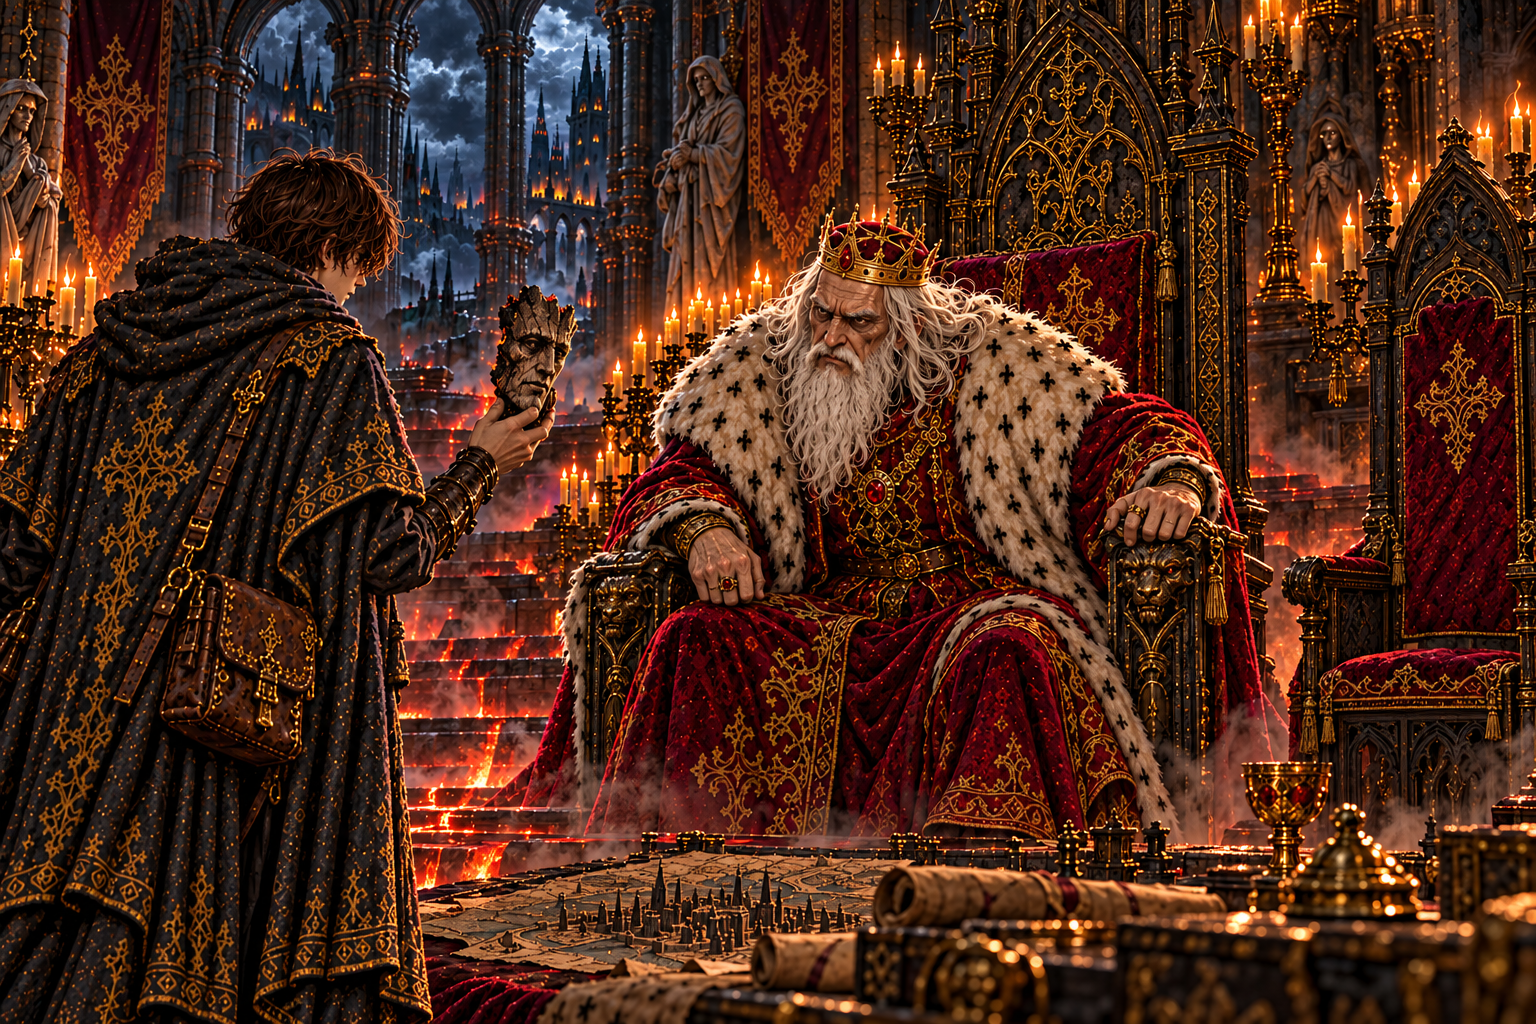
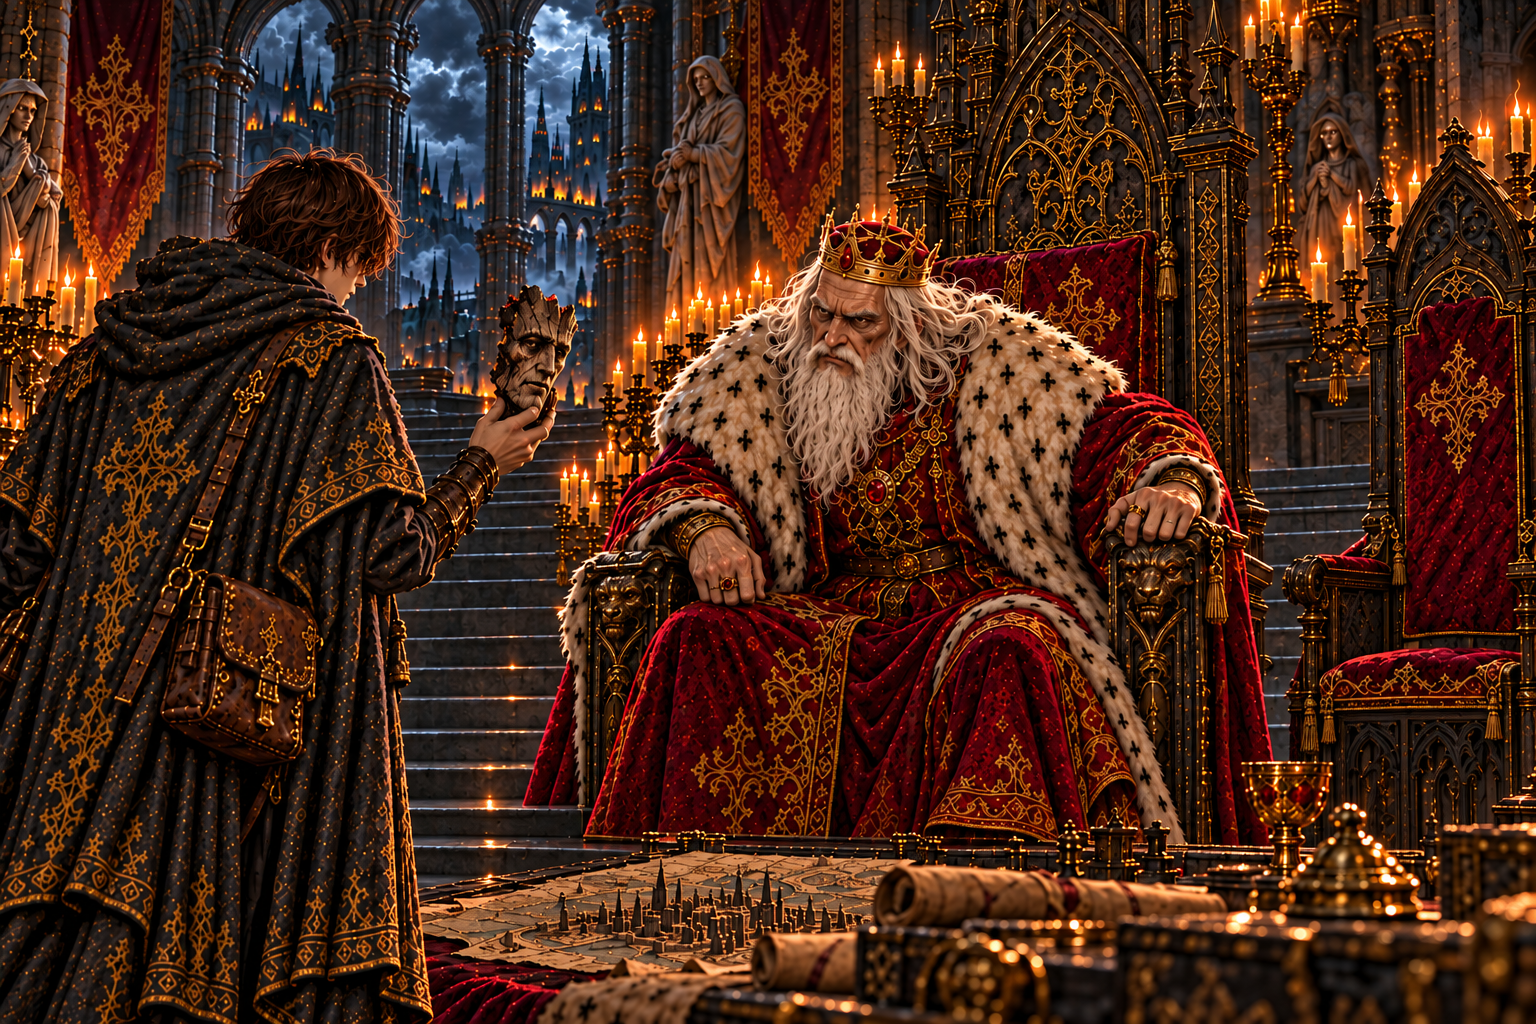
「燃やされる器」の床と階段を通常の石造りに修正

Changed region(s): [[0.0, 0.0, 1.0, 1.0], [0.625, 0.9062, 0.6875, 0.9375], [0.125, 0.3125, 0.1562, 0.3438]]

diff --git a/docs/art/codex-story-art-brief.md b/docs/art/codex-story-art-brief.md
@@ -540,6 +540,13 @@ Character reference sheet on a plain dark slate-blue background with soft even l
 ...except: restore ONLY the floor and the throne dais steps to ordinary intact dark polished stone masonry with normal non-glowing tile joints. Remove ALL red-orange glowing fissures, lava, molten seams, fiery light from under the floor or steps, red reflections caused by those fissures, and ALL steam or smoke rising from the floor. The room is merely unusually hot, not visibly volcanic or structurally damaged. Normal warm candle reflections on the stone are allowed. Keep the king wiping his brow, the kneeling soot-covered apprentice, their faces, hands, clothes and crests, the empty chancellor chair, the red carpet, candles, gothic architecture, cloudy sky, camera composition, and fine-grained pixel-textured style unchanged. Do not add people or objects.
 ```
 
+**A-39. 第五章 report_w19「燃やされる器」の床の修正** `art/story-review/chapter5/report_w19.png` (済)
+- 直す (2026-10-17 ユーザーの指示): report_w18 と同様に、床と階段を通常の石造りに戻す。赤く光る亀裂・溶岩・床からの蒸気と赤い反射光を取り除く。
+- 保つもの: 怒りに肘掛けを握る王、弟子と手に持った焼けた顔の木片、空いた宰相の席、机上の地図・巻物・杯、人物の顔・手・衣装・印、構図・画風・蝋燭・重い雲。修正前は `art/story-review/fixes/report_w19-before.png` に保存。
+```text
+...except: restore ONLY the floor and ALL stone stairs, including the background steps on BOTH sides of the king, to ordinary intact dark polished stone masonry with normal non-glowing joints. Remove ALL red-orange glowing cracks, lava, molten seams, fire from under the floor or stairs, their red reflected light, and ALL steam or smoke rising from the floor or stairs. This is an unusually hot ordinary throne room, not a volcanic chamber. Normal warm candlelight reflections are allowed. Preserve exactly the angry seated king gripping the armrests, the apprentice holding the charred wooden face fragment, their faces, hands, costumes and crests, the empty chancellor chair, the map, scrolls and goblets on the foreground table, the red textiles, lit candles, gothic architecture, heavy clouds, original composition and fine-grained pixel-textured style. Do not add people or objects.
+```
+
 ### B. 任意 (余力があれば。読者が気づきやすい順)
 
 | 場面 | 直すこと |
@@ -683,9 +690,9 @@ The same mansion workshop at night. Irene sits beside the workbench, holding a s
 
 **report_w19「燃やされる器」** (報告)
 - 要点: 王は、人業は死者に与えられた二度目の生だと言ったのに、それを釜にくべる者がいることを責める。玉座の間の熱は日ごとに強い。
-- 描くもの: 怒りに肘掛けを握る王 / 弟子が差し出す、焼けた殻から外した小さな顔の木片 (モルデンに似た顔) / 空いた宰相の席 / 熱気。
+- 描くもの: 怒りに肘掛けを握る王 / 弟子が差し出す、焼けた殻から外した小さな顔の木片 (モルデンに似た顔) / 空いた宰相の席 / 通常の石床と階段 (赤い亀裂・発光・蒸気なし)。
 ```text
-The same throne room, hotter than before: heat haze, a red glow from the floor cracks. The very old king grips the armrest in grim anger, staring at a small charred wooden face fragment that the apprentice holds up — a carved face resembling the gaunt chancellor. The chancellor's chair beside the throne stands empty. Heavy clouds outside.
+The same throne room, hotter than before, but with ordinary intact dark stone floors and stairs, non-glowing joints, no molten cracks, no red light from below, and no steam or smoke rising from the floor or stairs. The very old king grips the armrest in grim anger, staring at a small charred wooden face fragment that the apprentice holds up — a carved face resembling the gaunt chancellor. The chancellor's chair beside the throne stands empty. Heavy clouds outside.
 ```
 
 **w20_cup「三百年分の一行」** (手がかり / 迷宮「魂を煮る釜場」)

diff --git a/art/story-review/review/chapter5.md b/art/story-review/review/chapter5.md
@@ -197,7 +197,7 @@
 **指示書 (4章)**
 
 - 要点: 王は、人業は死者に与えられた二度目の生だと言ったのに、それを釜にくべる者がいることを責める。玉座の間の熱は日ごとに強い。
-- 描くもの: 怒りに肘掛けを握る王 / 弟子が差し出す、焼けた殻から外した小さな顔の木片 (モルデンに似た顔) / 空いた宰相の席 / 熱気。
+- 描くもの: 怒りに肘掛けを握る王 / 弟子が差し出す、焼けた殻から外した小さな顔の木片 (モルデンに似た顔) / 空いた宰相の席 / 通常の石床と階段 (赤い亀裂・発光・蒸気なし)。
 
 <a name="w20_cup"></a>
 
